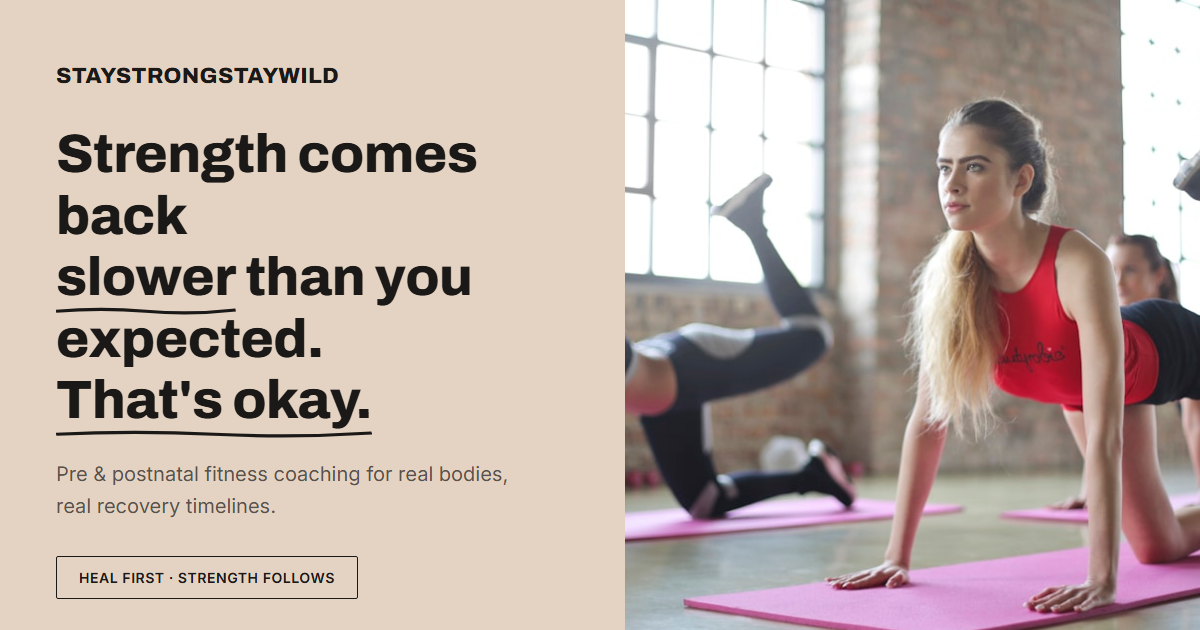
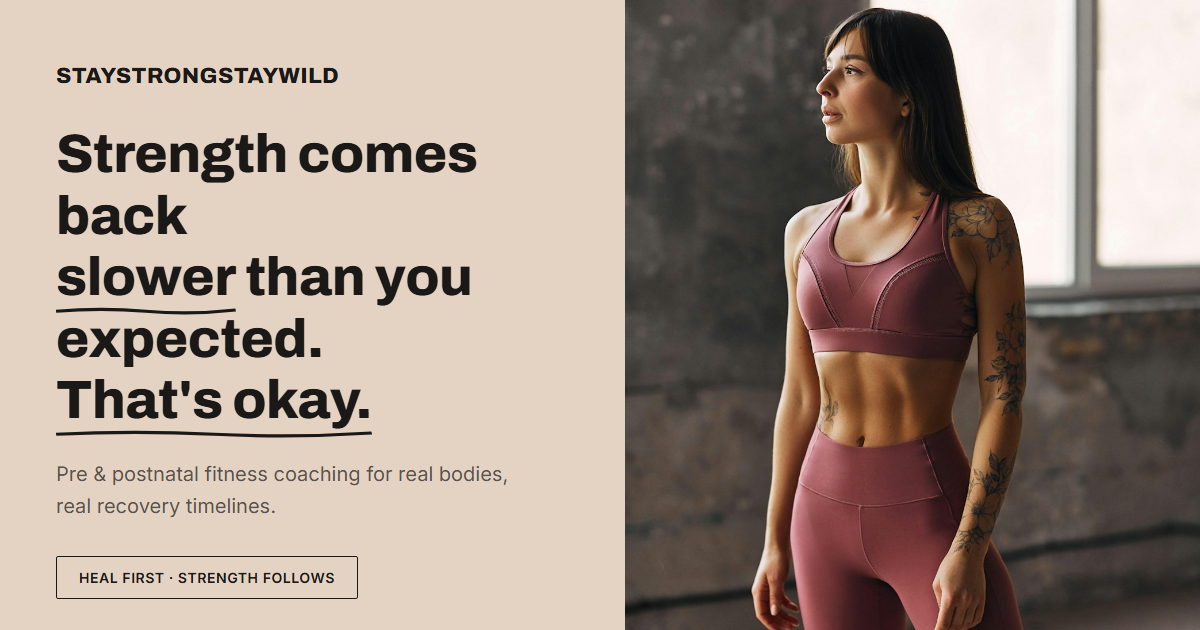
Swap hero photo for a more personal editorial portrait
Replace the generic group workout shot with a single confident
portrait in warm mauve tones that echo the site's blush palette —
matches the personal, editorial feel of the About Prakriti section
photo. Regenerated the OG share card to match.

diff --git a/src/App.jsx b/src/App.jsx
@@ -2,7 +2,7 @@ import { useState, useEffect, useRef } from 'react';
 import { motion, AnimatePresence } from 'framer-motion';
 
 const images = {
-  hero: "https://images.unsplash.com/photo-1518611012118-696072aa579a?w=1000&q=85",
+  hero: "https://images.unsplash.com/photo-1606902965551-dce093cda6e7?w=1000&q=85",
   coach: "https://images.unsplash.com/photo-1531123897727-8f129e1688ce?w=900&q=85",
   about_1: "https://images.unsplash.com/photo-1544005313-94ddf0286df2?w=700&q=85",
   food_1: "https://images.unsplash.com/photo-1533089860892-a7c6f0a88666?w=800&q=80",
